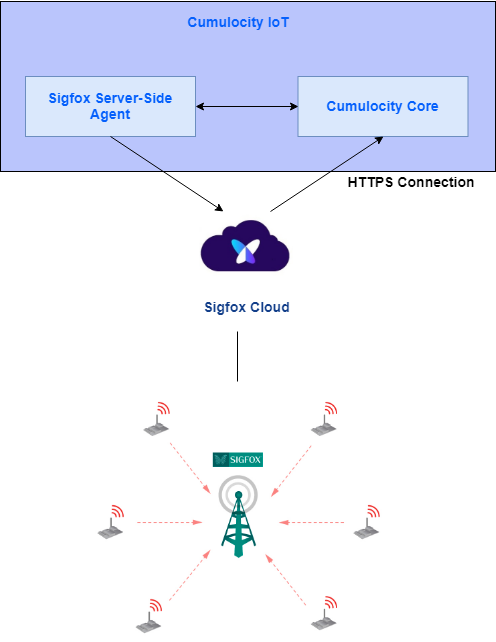
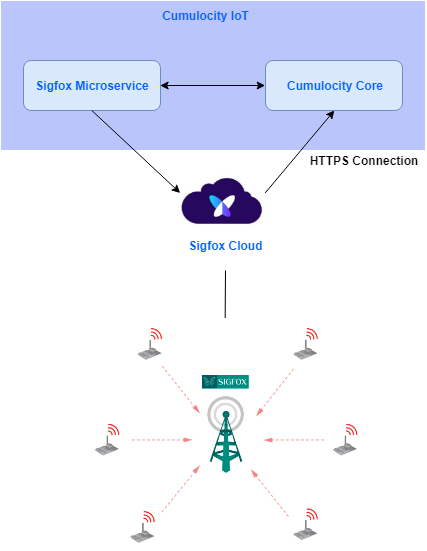
Added changes after review and removed the old Sigfox guide.

diff --git a/src/render/guides/users-guide/optional-services/sigfox.html.md b/src/render/guides/users-guide/optional-services/sigfox.html.md
@@ -25,7 +25,7 @@ Before you create API access to Cumulocity, you need to have an “Associated us
 - Customer [W]
 - Device Manager [W]
 
-**Note:** Without the following profiles, the required Sigfox Api access can not be set up.
+**Info:** Without the following profiles, the required Sigfox Api access can not be set up.
 
 Step 1 is only relevant, if you do not have an associated user yet. If you do, skip to Step 2.
 
@@ -47,7 +47,7 @@ After creating an “Associated User” with the proper group and profiles navig
 
 #### Step 3 
 
-After the API Access entry has been created, you can connect your Sigfox Cloud account to Cumulocity via the “Connectivity” page in the Administration application. Navigate to the “Connectivity” page and then go to the “Sigfox provider settings” tab. 
+After the API access entry has been created, you can connect your Sigfox Cloud account to Cumulocity via the “Connectivity” page in the Administration application. Navigate to the “Connectivity” page and then go to the “Sigfox provider settings” tab. 
 
 The following information has to be provided:
 
@@ -66,45 +66,45 @@ If you wish to overwrite your previous credentials, simply click **Replace crede
 ### <a name="create-device-types"></a>Creating device types
 
 To process data from Sigfox devices, Cumulocity needs to understand the payload format of the devices.
-Mapping a payload data to Cumulocity data can be done by creating a Sigfox device type.
-During the [device registration](#register-device), you can associate this device type and afterwards the received uplink callbacks for this device with a hexadecimal payload will be mapped to the ones you have configured in your device type.
-If a device type has been changed after being associated to a device, the reflection of the change can take up to 10 minutes because of the refresh mechanism of the Sigfox Cloud Server Side Agent.
+Mapping payload data to Cumulocity data can be done by creating a Sigfox device type.
 
-**Note** that device protocol mapping only supports decoding for fixed byte positions based on the message type. 
+During the [device registration](#register-device), you can associate this device type and afterwards the received uplink callbacks for this device with a hexadecimal payload will be mapped to the ones you have configured in your device type.
+If a device type has been changed after being associated to a device, the reflection of the change can take up to 10 minutes because of the refresh mechanism of the Sigfox microservice.
+
+**Info:** Device protocol mapping only supports decoding for fixed byte positions based on the message type. 
 
 In order to create device types, go to the Device Management application and select "Device database" in the "Device types" menu in the navigator. You can either import an existing device type or create a new one. 
 
 #### <a name="import-device-type"></a>Importing a device type
 
-In the Device database window, click the "Import" button. 
+In the Device database window, click on the "Import". 
 
-Upload the device type from a file and click on "import".
+Upload the device type from a file and click **Import**.
 
 #### <a name="create-new-device-type"></a>Creating a new device type
 
-In the device database window, click the "New" button. The following window will open:
+In the device database window, click **New**. The following window will open:
 
 <img src="/guides/images/users-guide/sigfox/sigfox-new-type.png" alt="Create new device type" style="max-width: 100%">
 
-Select "Sigfox" as the device type and name your device type. 
+Select "Sigfox" as the device type and provide a name for your device type. 
 
-In the next UI section you determine the message type. Sigfox devices can send messages of different types with different encodings per type. Depending on the device, the type can be determined by looking either at the FPort parameter of a message (Source: FPort) or at the subset of the message payload itself (Source: Payload). 
+In the following window you determine the message type. Sigfox devices can send messages of different types with different encodings per type. Depending on the device, the type can be determined by looking either at the FPort parameter of a message (Source: FPort) or at the subset of the message payload itself (Source: Payload). 
 
-Select the way the message type is encoded in the "Source" dropdown box:  
+Select the way the message type is encoded in the "Source" list:  
 
-- **FPort**: if the message type can be determined by looking at the FPort parameter of a message  
 - **Payload**: if the message type can be determined by looking at the subset of the message payload itself   
 
 In the following example payload structure, the first byte indicates the message type source (as highlighted).
 
 <img src="/guides/images/users-guide/actility/payload-example1.png" alt="Example payload: message type source" style="max-width: 100%">
 
-In the user interface you can enter this type of message type source information as follows: Indicate in the "Start bit" field where the message type information starts in the payload and how long this information is in the "Number of bits" field, for example start bit = "0" and number of bits = "8".
+In the user interface you can enter this type of message type source information as follows: In the "Start bit" field, indicate where the message type information starts in the payload and in the"Number of bits" field indicate how long this information is, for example start bit = "0" and number of bits = "8".
 
 <img src="/guides/images/users-guide/sigfox/payload.png" alt="Message type payload" style="max-width: 100%">
 
-Click the "Add" button to create the value configuration. 
-
+Click **Add** to create the value configuration. 
+	
 <img src="/guides/images/users-guide/actility/add-button.png" alt="Device type: new" style="max-width: 100%">
 
 A window similar to the following one will open. Configure the relevant values as shown in this example. 
@@ -115,7 +115,7 @@ The value configuration maps the value in the payload of a message type to the C
 
 Configure the "Message ID" according to your device message specification and map it to the Cumulocity data. The message ID is the numeric value identifying the message type. It will be matched with the message ID found in the source specified on the device type main page (i.e. Payload or FPort). The message ID needs to be entered in decimal numbers (not hex).
 
-In this example payload structure the message ID is "1".
+In this sample payload structure the message ID is "1".
 
 <img src="/guides/images/users-guide/actility/payload-example2.png" alt="Example payload: message type source" style="max-width: 100%">
 
@@ -131,12 +131,12 @@ In this example the "Channel 1 Type" information starts in byte 2 (i.e. start bi
 
 <img src="/guides/images/users-guide/actility/deviceDatabase4b.png" alt="Value selection" style="max-width: 60%">
 
-The hexadecimal value is converted to a decimal number and afterwards a "value normalisation" is applied.
+The hexadecimal value is converted to a decimal number and afterwards a "value normalization" is applied.
 
-Under "Value normalisation" define how the raw value should be transformed before being stored in the platform and enter the appropriate values for:
+Under "Value normalization" define how the raw value should be transformed before being stored in the platform and enter the appropriate values for:
 
-- **Multiplier**: This value is multiplied with the value extracted from the "Value selection". It can be decimal, negative and positive. By default it is set to 1. 
-- **Offset**: This value defines the offset that is added or subtracted. It can be decimal, negative and positive. By default it is set to 0.
+- **Multiplier**: This value is multiplied with the value extracted from the "Value selection". It can be decimal, negative or positive. By default it is set to 1. 
+- **Offset**: This value defines the offset that is added or subtracted. It can be decimal, negative or positive. By default it is set to 0.
 - **Unit** (optional): A unit can be defined which is saved together with the value (e.g. temperature unit "C" for degree Celsius).
 
 For detailed information on how to decode the payload, refer to the documentation of the device. 
@@ -167,7 +167,7 @@ The following picture shows an example for a message which sends a measurement w
 
 **<a name="nested-structure-example"></a>Example with nested structure**
 
-The following picture shows an example of a nested structure for a device type reporting the current position of a GPS device. The device type is named "Position" and contains values for longitude and latitude. 
+The following picture shows an example of a nested structure for a device type, reporting the current position of a GPS device. The device type is named "Position" and contains values for longitude and latitude. 
 
 The "Message ID" should be the same for all the values. Enter the rest of the parameters according to the instructions above. Enter "c8y_Position" in the "Managed object fragment" field and create a new value for each: longitude and latitude. 
 
@@ -191,8 +191,8 @@ In the upcoming window, click **Sigfox**.
 
 In the next window, fill in the required information:
 
-**ID:** Unique device ID.
-**PAC:** Porting authorization code for your device.
+**ID:** Unique device ID. The value should be a hexadecimal number.
+**PAC:** Porting authorization code for your device. The value should be a hexadecimal number.
 **Contract:** Choose your desired contract.
 **Device Type:** Select your desired device type from the drop-down list.
 **Product Certificate Key:** This key can be located in “https://partners.sigfox.com/”. Navigate to your device and copy the certificate key.
@@ -209,6 +209,6 @@ For more information on viewing and managing your connected devices, also refer 
 
 ### <a name="operations"></a>Sending operations
 
-If the device supports sending hexadecimal commands, you can send commands from“Shell”. Go to the Device Management application and navigate to the device you want to send an operation to. Click on the "Shell" tab.
+If the device supports sending hexadecimal commands, you can send commands from “Shell”. Go to the Device Management application and navigate to the device you want to send an operation to. Switch to the "Shell" tab.
 
-**Note:** Operations do not go to “Executing” state immediately. They go to “Executing” state when the device is expecting the downlink message. Afterwards, the pending operation which is created first goes to executing state.
+**Info:** Operations do not go to “Executing” state immediately. They go to “Executing” state when the device is expecting the downlink message. Afterwards, the pending operation which is created first goes to executing state.
